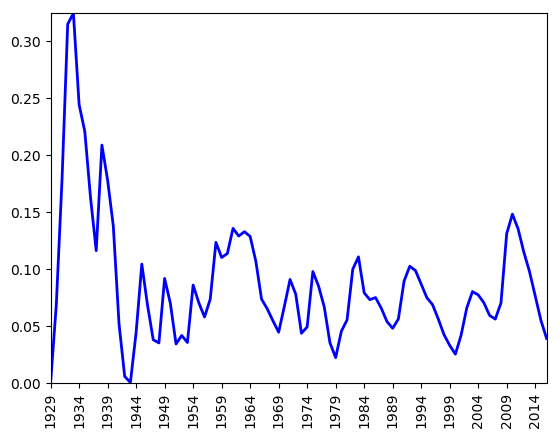
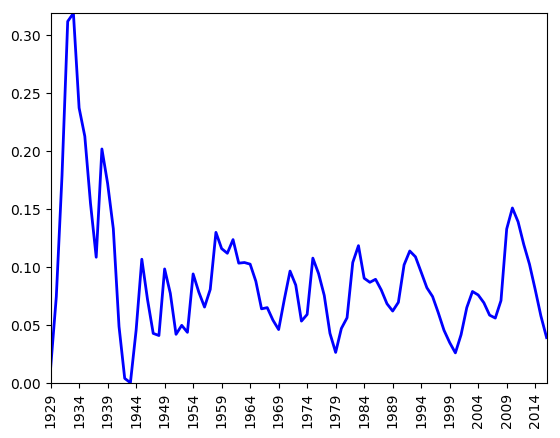
changed value for savgol (better reflects unrate)

diff --git a/employment.py b/employment.py
@@ -8,9 +8,9 @@ df.columns=['DATE', 'EMPLOYEES']
 df.DATE=df.DATE.map(lambda x: x.replace('-01-01', ''))
 df.DATE=pd.to_numeric(df.DATE)
 df.EMPLOYEES=np.log(df.EMPLOYEES)
-uns=-(df.EMPLOYEES-sp.savgol_filter(df.EMPLOYEES, 71, 4))
+uns=-(df.EMPLOYEES-sp.savgol_filter(df.EMPLOYEES, 61, 4))
 une=abs(uns)
-uny=(sp.savgol_filter(une, 71, 6))
+uny=(sp.savgol_filter(une, 61, 6))
 unw=uns+uny-(uns+uny).min()
 plt.xticks(rotation=90)
 plt.xticks(np.arange(1929, 2017, 5))
